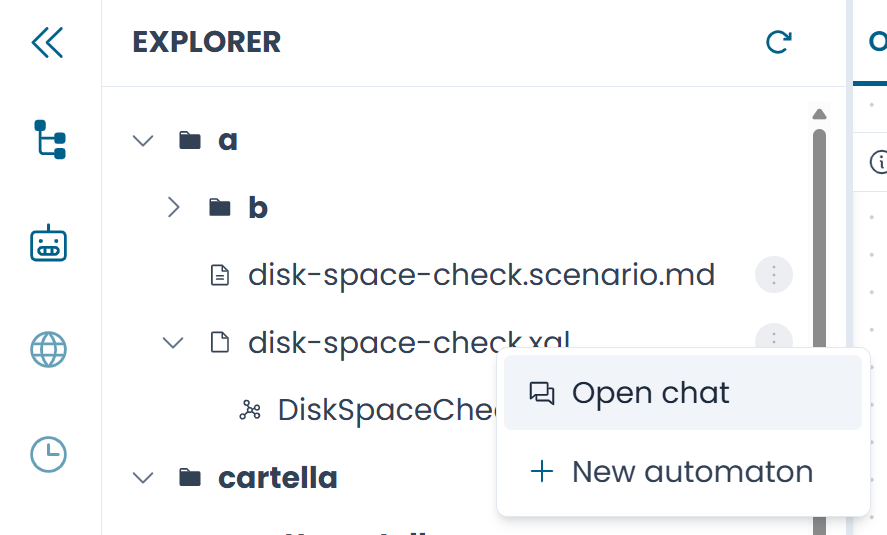
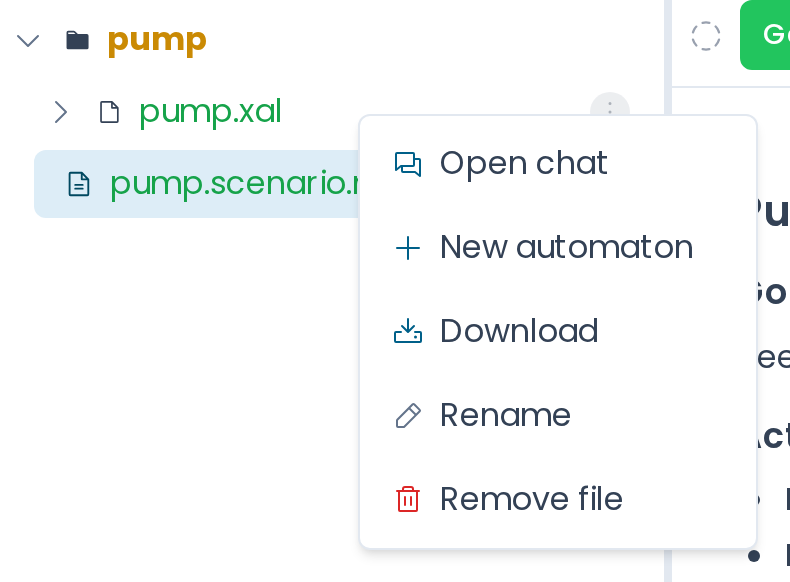
docs: aggiorna la pagina Panoramica di Arianna
Presentazione nella chat vuota e schermo intero (sezioni nuove),
toolbar del tab scenario con badge e pulsanti che compaiono solo
quando servono, Focus che apre anche la chat del file, Open chat
solo per una chat già avviata, scenario che segue l'XAL quando lo
rinomini o lo sposti. Pagine EN e IT, screenshot nuovi.

Fixes #7

diff --git a/docs/designer/arianna/overview.it.md b/docs/designer/arianna/overview.it.md
@@ -29,11 +29,13 @@ patch_oracle.scenario.md    ← lo scenario (satellite, stesso base name)
 
 Il file scenario è un **satellite** del file XAL: vive sempre nella stessa directory e condivide lo stesso base name, con estensione `.scenario.md` al posto di `.xal`. Questa co-location è strutturale — il collegamento tra i due non viene mai memorizzato esplicitamente; è derivato dal path.
 
-Il file scenario può esistere prima del file XAL (Arianna lo crea non appena lo scenario è pronto), ma non può mai trovarsi in una directory diversa. Spostare o rinominare il file XAL richiede di aggiornare di conseguenza il path del file scenario.
+Il file scenario può esistere prima del file XAL (Arianna lo crea non appena lo scenario è pronto), ma non può mai trovarsi in una directory diversa. Quando rinomini o sposti un file XAL non ancora committato, il file scenario si sposta con lui e la sessione chat lo segue.
 
 ### Un solo tab scenario alla volta
 
 L'editor consente di avere aperto un solo tab scenario alla volta. È una scelta intenzionale: il tab scenario e la sessione chat attiva sono sempre sincronizzati, e avere più tab scenario aperti simultaneamente violerebbe questo contratto. Se passi a una sessione chat diversa, il tab scenario corrente viene chiuso e lo scenario della nuova sessione (se presente) viene aperto al suo posto.
+
+Mentre modifichi lo scenario non puoi passare a un altro: il Designer mostra l'avviso *Unsaved scenario*. Prima salva o annulla la modifica.
 
 ---
 
@@ -45,10 +47,12 @@ La voce del menu contestuale cambia a seconda che esista già una sessione per q
 
 | Voce | Condizione | Effetto |
 |---|---|---|
-| **Open chat** | Esiste già una sessione per questo file | Passa alla sessione attiva per questo file; apre il tab scenario se lo scenario è presente |
-| **New chat** | Non esiste nessuna sessione per questo file | Crea una nuova sessione collegata al file; il titolo viene pre-compilato con il nome del file |
+| **Open chat** | La chat del file ha già dei messaggi | Apre il pannello AI Assistant su quella chat; apre il tab scenario se lo scenario è presente |
+| **New chat** | Il file non ha ancora una chat, o la sua chat è ancora vuota | Crea una chat collegata al file, con il nome del file. Una chat vuota viene riaperta, non duplicata |
 
-Le stesse voci sono disponibili sui file `.scenario.md` — sia lo scenario che l'XAL condividono la stessa sessione.
+La stessa voce è disponibile sui file `.scenario.md`: lo scenario e l'XAL condividono la stessa chat.
+
+I file non ancora committati hanno nel menu anche **Download** e **Remove file**, e un file XAL anche **Rename**.
 
 ![Menu contestuale su un file XAL](../../images/designer/arianna/context_menu.png)
 /// caption
@@ -57,26 +61,71 @@ Fig.1 - La voce "Open chat" nel menu contestuale del Repository Explorer
 
 ---
 
+## Il pannello della chat
+
+### La presentazione di Arianna
+
+Una chat nuova, vuota, si apre con una breve presentazione: cosa fa Arianna e cosa devi dirle tu. Conosce XAL e il runtime di Xautomata, ma non i tuoi sistemi, i tuoi endpoint e le regole del tuo dominio. La presentazione sparisce al primo messaggio.
+
+La chat [User Guide](sessions.md#user-guide) mostra una presentazione più breve.
+
+![Una chat nuova con la presentazione di Arianna](../../images/designer/arianna/chat_empty_intro.png)
+/// caption
+Fig.2 - Una chat nuova: Arianna si presenta
+///
+
+### Schermo intero
+
+Le risposte lunghe, come un report di consistenza, si leggono meglio a schermo intero. Clicca **Full screen** nell'intestazione della chat: la chat copre tutta la finestra, con la stessa intestazione, gli stessi messaggi e lo stesso campo di testo. Per tornare indietro clicca **Exit full screen** in alto a destra, oppure premi **Esc**.
+
+Passando dall'una all'altra modalità non perdi niente: il messaggio non ancora inviato, la skill e una risposta in corso restano come sono.
+
+![La chat a schermo intero](../../images/designer/arianna/chat_fullscreen.png)
+/// caption
+Fig.3 - La chat a schermo intero. Il pulsante in alto a destra la riporta nel pannello laterale
+///
+
+---
+
 ## Il tab scenario
 
-Quando Arianna genera uno scenario, il Designer apre un **tab scenario** nell'editor. Mostra lo scenario strutturato in Markdown renderizzato ed espone i pulsanti per le azioni one-shot — **Generate XAL**, **Verify Consistency** e **Sync Scenario** — direttamente sotto il contenuto.
+Quando Arianna genera uno scenario, il Designer apre un **tab scenario** nell'editor. Mostra lo scenario in Markdown renderizzato, con una toolbar sopra.
+
+### La toolbar
+
+La toolbar mostra solo le azioni che valgono per lo stato attuale di scenario e XAL.
+
+A sinistra:
+
+- il **badge di stato**: un'icona che ti dice se scenario e XAL sono allineati. Passa il mouse sopra per leggere lo stato;
+- **Generate XAL** o **Update XAL**, quando l'XAL manca o è rimasto indietro rispetto allo scenario: vedi [Generare l'XAL](generating_xal.md) e [Aggiornare l'XAL](updating_xal.md);
+- **Sync Scenario**, quando l'XAL è stato modificato a mano: vedi [Sincronizzare lo scenario](syncing_scenario.md);
+- **Verify XAL Consistency**, quando c'è un XAL da verificare: vedi [Verificare la consistenza](verify_consistency.md).
+
+La tabella in [Aggiornare l'XAL](updating_xal.md#quando-compare-update-xal) elenca ogni stato con il suo badge e i suoi pulsanti.
+
+A destra, tre pulsanti rotondi:
+
+| Pulsante | Effetto |
+|---|---|
+| **Show changes since the last commit** | Mostra le modifiche dello scenario rispetto a una versione precedente. Compare quando c'è più di una versione |
+| **Edit scenario** | Apre lo scenario come testo. Clicca **Save** per tenere le modifiche o **Cancel** per scartarle. Mentre modifichi, la toolbar mostra solo questi due pulsanti |
+| **Focus** | Concentra il workspace su questo file (vedi sotto) |
+
+![Il tab scenario con la sua toolbar](../../images/designer/arianna/scenario_tab_focus.png)
+/// caption
+Fig.4 - Il tab scenario. Qui lo scenario è cambiato dopo l'ultima generazione: freccia blu e Update XAL. Il mouse è su Focus
+///
 
 ### Il pulsante Focus
 
-L'intestazione del tab scenario include un pulsante **Focus**. Cliccarlo:
+Cliccando **Focus**:
 
-1. Chiude tutti i tab appartenenti ad altri file XAL
-2. Apre tutti gli automi definiti nel file XAL collegato
+1. Si chiudono i tab degli automi di altri file XAL
+2. Si aprono tutti gli automi definiti nel file XAL collegato
+3. Si mostra il tab scenario e si apre il pannello AI Assistant sulla chat del file, creandola se non c'è
 
 Usa Focus quando vuoi concentrare il workspace su un unico file — per esempio, dopo aver navigato tra più automi e voler avere una vista pulita di quello su cui stai lavorando.
-
-!!! note
-    Focus è disponibile solo nell'intestazione del tab scenario, non nel menu contestuale. Se lo scenario è in modalità modifica con modifiche non salvate, Focus è bloccato finché le modifiche non vengono salvate o scartate.
-
-![Il tab scenario con il pulsante Focus evidenziato](../../images/designer/arianna/scenario_tab_focus.png)
-/// caption
-Fig.2 - Il tab scenario. Il pulsante Focus si trova nell'angolo in alto a destra dell'intestazione del tab
-///
 
 ---
 

diff --git a/docs/designer/arianna/overview.md b/docs/designer/arianna/overview.md
@@ -29,11 +29,13 @@ patch_oracle.scenario.md    ← the scenario (satellite, same base name)
 
 The scenario file is a **satellite** of the XAL file: it always lives in the same directory and shares the same base name, with a `.scenario.md` extension instead of `.xal`. This co-location is structural — the link between the two is never stored explicitly; it is derived from the path.
 
-The scenario file can exist before the XAL file (Arianna creates it as soon as the scenario is ready), but it can never exist in a different directory. Moving or renaming the XAL file requires updating the scenario file path accordingly.
+The scenario file can exist before the XAL file (Arianna creates it as soon as the scenario is ready), but it can never exist in a different directory. When you rename or move an XAL file that is not committed yet, the scenario file moves with it and the chat session follows.
 
 ### One scenario tab at a time
 
 The editor allows only one scenario tab open at a time. This is intentional: the scenario tab and the active chat session are always in sync, and having multiple scenario tabs open simultaneously would break that contract. If you switch to a different chat session, the current scenario tab is closed and the new session's scenario (if any) is opened in its place.
+
+While you are editing the scenario, you can't switch to another one: the Designer shows the *Unsaved scenario* warning. Save or cancel the edit first.
 
 ---
 
@@ -45,10 +47,12 @@ The context menu entry changes depending on whether a session already exists for
 
 | Entry | Condition | Effect |
 |---|---|---|
-| **Open chat** | A session already exists for this file | Switches the active session to this file; opens the scenario tab if a scenario is present |
-| **New chat** | No session exists for this file | Creates a new session linked to this file; the session title is pre-filled with the file name |
+| **Open chat** | The file's chat already has messages | Opens the AI Assistant panel on that chat; opens the scenario tab if a scenario is present |
+| **New chat** | The file has no chat yet, or its chat is still empty | Creates a chat linked to this file, named after the file. An empty chat is reopened, not duplicated |
 
-The same entries are available on `.scenario.md` files — both the scenario and the XAL share the same session.
+The same entry is available on `.scenario.md` files: the scenario and the XAL share the same chat.
+
+Files that are not committed yet also have **Download** and **Remove file** in the menu, and an XAL file has **Rename** too.
 
 ![Context menu on an XAL file](../../images/designer/arianna/context_menu.png)
 /// caption
@@ -57,26 +61,71 @@ Fig.1 - The "Open chat" entry in the Repository Explorer context menu
 
 ---
 
+## The chat panel
+
+### Arianna's introduction
+
+A new, empty chat starts with a short introduction: what Arianna does, and what you need to tell her. She knows XAL and the Xautomata runtime, but not your systems, endpoints, and domain rules. The introduction disappears with your first message.
+
+The [User Guide](sessions.md#user-guide) chat shows a shorter introduction.
+
+![A new chat with Arianna's introduction](../../images/designer/arianna/chat_empty_intro.png)
+/// caption
+Fig.2 - A new chat: Arianna introduces herself
+///
+
+### Full screen
+
+Long answers, such as a consistency report, are easier to read in full screen. Click **Full screen** in the chat header: the chat covers the whole window, with the same header, messages, and input box. To go back, click **Exit full screen** at the top right, or press **Esc**.
+
+Nothing is lost when you switch: your unsent message, the skill, and an answer in progress stay as they are.
+
+![The chat in full screen](../../images/designer/arianna/chat_fullscreen.png)
+/// caption
+Fig.3 - The chat in full screen. The button at the top right brings it back to the side panel
+///
+
+---
+
 ## The scenario tab
 
-When Arianna generates a scenario, the Designer opens a **scenario tab** in the editor. It displays the structured scenario in rendered Markdown and exposes the one-shot action buttons — **Generate XAL**, **Verify Consistency**, and **Sync Scenario** — directly below the content area.
+When Arianna generates a scenario, the Designer opens a **scenario tab** in the editor. It shows the scenario in rendered Markdown, with a toolbar above it.
+
+### The toolbar
+
+The toolbar shows only the actions that apply to the current state of scenario and XAL.
+
+On the left:
+
+- the **status badge**: an icon that tells you whether scenario and XAL are aligned. Move the mouse over it to read the state;
+- **Generate XAL** or **Update XAL**, when the XAL is missing or behind the scenario: see [Generating XAL](generating_xal.md) and [Updating XAL](updating_xal.md);
+- **Sync Scenario**, when the XAL was edited by hand: see [Syncing the Scenario](syncing_scenario.md);
+- **Verify XAL Consistency**, when there is an XAL to check: see [Verifying Consistency](verify_consistency.md).
+
+The table in [Updating XAL](updating_xal.md#when-update-xal-appears) lists every state with its badge and buttons.
+
+On the right, three round buttons:
+
+| Button | Effect |
+|---|---|
+| **Show changes since the last commit** | Shows the changes of the scenario, compared with an earlier version. It appears once there is more than one version |
+| **Edit scenario** | Opens the scenario as text. Click **Save** to keep the changes or **Cancel** to drop them. While you edit, the toolbar shows only these two buttons |
+| **Focus** | Concentrates the workspace on this file (see below) |
+
+![The scenario tab with its toolbar](../../images/designer/arianna/scenario_tab_focus.png)
+/// caption
+Fig.4 - The scenario tab. Here the scenario changed after the last generation: blue arrow and Update XAL. The mouse is on Focus
+///
 
 ### The Focus button
 
-The scenario tab header includes a **Focus** button. Clicking it:
+Clicking **Focus**:
 
-1. Closes all tabs belonging to other XAL files
+1. Closes the automaton tabs of other XAL files
 2. Opens all automata defined in the linked XAL file
+3. Shows the scenario tab and opens the AI Assistant panel on the file's chat, creating the chat if there is none
 
 Use Focus when you want to concentrate the workspace on a single file — for example, after switching between several automata and wanting a clean view of the one you are currently working on.
-
-!!! note
-    Focus is only available in the scenario tab header, not in the context menu. If the scenario is in edit mode with unsaved changes, Focus is blocked until the changes are saved or discarded.
-
-![The scenario tab with the Focus button highlighted](../../images/designer/arianna/scenario_tab_focus.png)
-/// caption
-Fig.2 - The scenario tab. The Focus button is in the top-right corner of the tab header
-///
 
 ---
 
